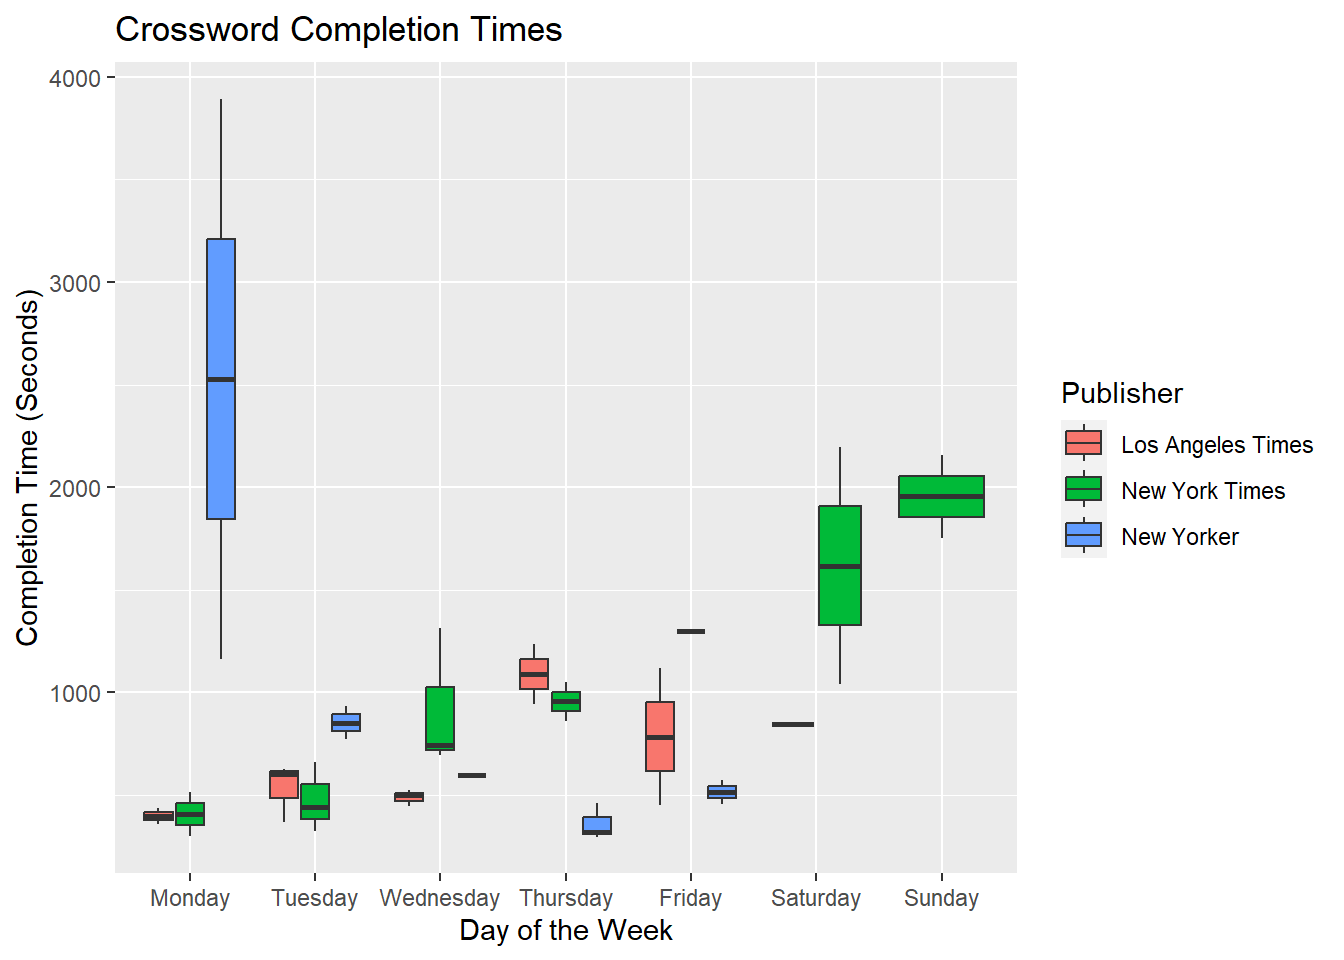
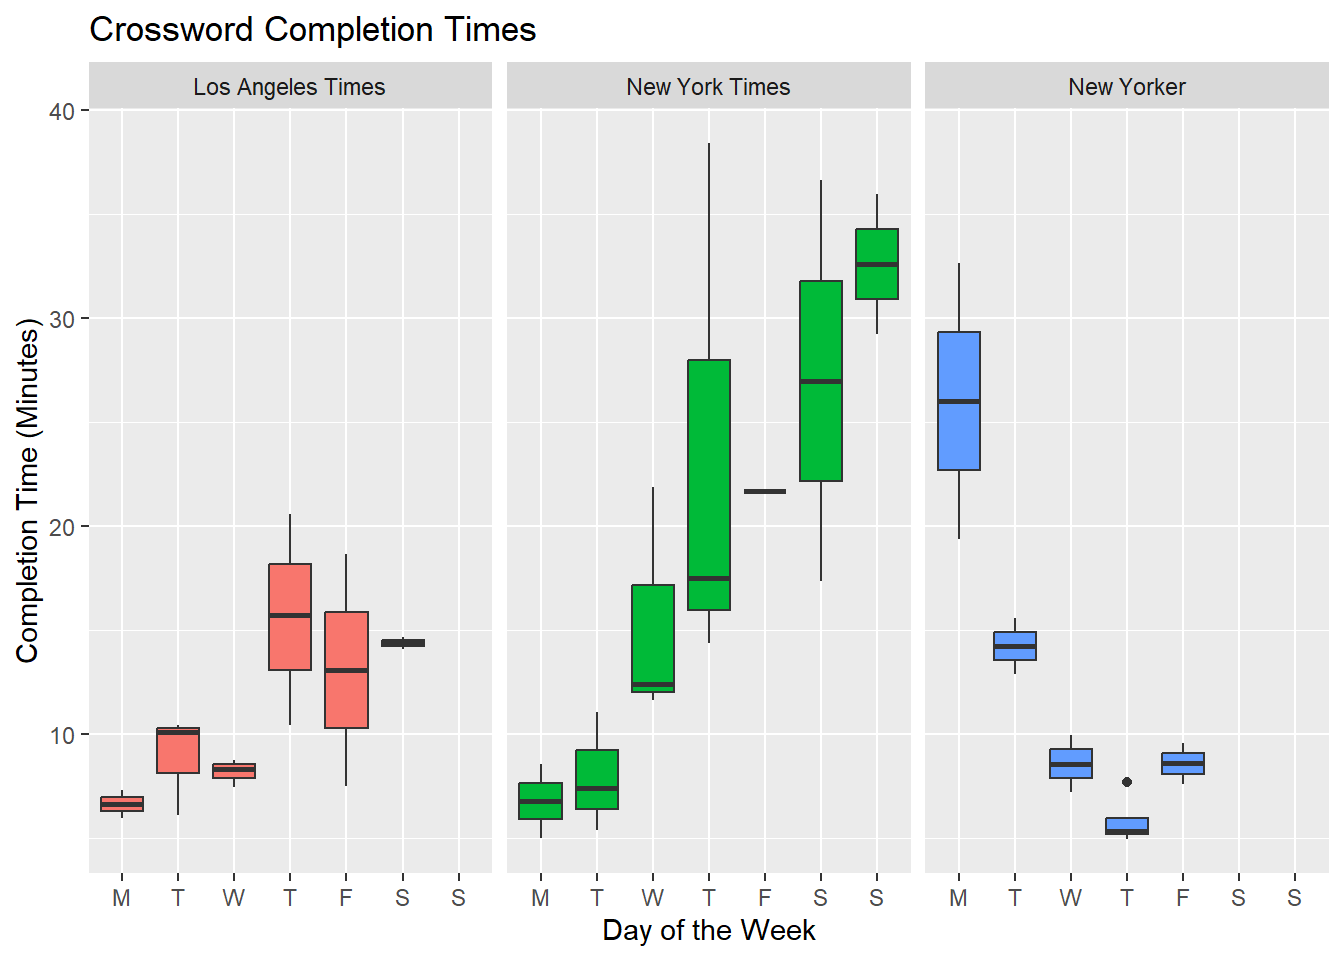
redesign boxplot in crossword times post

diff --git a/posts/crossword_times/crossword_times.html b/posts/crossword_times/crossword_times.html
@@ -209,12 +209,15 @@ code span.wa { color: #60a0b0; font-weight: bold; font-style: italic; } /* Warni
 <div class="sourceCode cell-code" id="cb1"><pre class="sourceCode r code-with-copy"><code class="sourceCode r"><span id="cb1-1"><a href="#cb1-1" aria-hidden="true" tabindex="-1"></a><span class="fu">read_csv</span>(<span class="st">"crossword_times.csv"</span>, <span class="at">col_types =</span> <span class="st">"ccD"</span>) <span class="sc">|&gt;</span></span>
 <span id="cb1-2"><a href="#cb1-2" aria-hidden="true" tabindex="-1"></a>  <span class="fu">ggplot</span>(<span class="fu">aes</span>(<span class="at">x =</span> <span class="fu">factor</span>(<span class="fu">weekdays</span>(<span class="fu">as.Date</span>(Date)), </span>
 <span id="cb1-3"><a href="#cb1-3" aria-hidden="true" tabindex="-1"></a>                        <span class="fu">weekdays</span>(<span class="fu">as.Date</span>(<span class="st">'1970-01-01'</span>) <span class="sc">+</span> <span class="dv">4</span><span class="sc">:</span><span class="dv">10</span>)), </span>
-<span id="cb1-4"><a href="#cb1-4" aria-hidden="true" tabindex="-1"></a>             <span class="at">y =</span> <span class="fu">period_to_seconds</span>(<span class="fu">ms</span>(Time)), </span>
+<span id="cb1-4"><a href="#cb1-4" aria-hidden="true" tabindex="-1"></a>             <span class="at">y =</span> <span class="fu">period_to_seconds</span>(<span class="fu">ms</span>(Time))<span class="sc">/</span><span class="dv">60</span>, </span>
 <span id="cb1-5"><a href="#cb1-5" aria-hidden="true" tabindex="-1"></a>             <span class="at">fill =</span> Publisher)) <span class="sc">+</span></span>
-<span id="cb1-6"><a href="#cb1-6" aria-hidden="true" tabindex="-1"></a>  <span class="fu">geom_boxplot</span>() <span class="sc">+</span></span>
-<span id="cb1-7"><a href="#cb1-7" aria-hidden="true" tabindex="-1"></a>  <span class="fu">labs</span>(<span class="at">title =</span> <span class="st">"Crossword Completion Times"</span>, </span>
-<span id="cb1-8"><a href="#cb1-8" aria-hidden="true" tabindex="-1"></a>           <span class="at">x =</span> <span class="st">"Day of the Week"</span>,</span>
-<span id="cb1-9"><a href="#cb1-9" aria-hidden="true" tabindex="-1"></a>           <span class="at">y =</span> <span class="st">"Completion Time (Seconds)"</span>)</span></code><button title="Copy to Clipboard" class="code-copy-button"><i class="bi"></i></button></pre></div>
+<span id="cb1-6"><a href="#cb1-6" aria-hidden="true" tabindex="-1"></a>  <span class="fu">geom_boxplot</span>(<span class="fu">aes</span>(<span class="at">fill =</span> Publisher)) <span class="sc">+</span></span>
+<span id="cb1-7"><a href="#cb1-7" aria-hidden="true" tabindex="-1"></a>  <span class="fu">scale_x_discrete</span>(<span class="at">labels =</span> <span class="fu">c</span>(<span class="st">"M"</span>, <span class="st">"T"</span>, <span class="st">"W"</span>, <span class="st">"T"</span>, <span class="st">"F"</span>, <span class="st">"S"</span>, <span class="st">"S"</span>)) <span class="sc">+</span></span>
+<span id="cb1-8"><a href="#cb1-8" aria-hidden="true" tabindex="-1"></a>  <span class="fu">facet_wrap</span>(<span class="sc">~</span>Publisher) <span class="sc">+</span></span>
+<span id="cb1-9"><a href="#cb1-9" aria-hidden="true" tabindex="-1"></a>  <span class="fu">guides</span>(<span class="at">fill =</span> <span class="cn">FALSE</span>) <span class="sc">+</span> </span>
+<span id="cb1-10"><a href="#cb1-10" aria-hidden="true" tabindex="-1"></a>  <span class="fu">labs</span>(<span class="at">title =</span> <span class="st">"Crossword Completion Times"</span>, </span>
+<span id="cb1-11"><a href="#cb1-11" aria-hidden="true" tabindex="-1"></a>           <span class="at">x =</span> <span class="st">"Day of the Week"</span>,</span>
+<span id="cb1-12"><a href="#cb1-12" aria-hidden="true" tabindex="-1"></a>           <span class="at">y =</span> <span class="st">"Completion Time (Minutes)"</span>)</span></code><button title="Copy to Clipboard" class="code-copy-button"><i class="bi"></i></button></pre></div>
 <div class="cell-output-display">
 <p><img src="crossword_times_files/figure-html/boxplot-1.png" class="img-fluid" width="672"></p>
 </div>

diff --git a/posts.html b/posts.html
@@ -143,7 +143,7 @@ ul.task-list li input[type="checkbox"] {
 
 <div class="quarto-listing quarto-listing-container-default" id="listing-listing">
 <div class="list quarto-listing-default">
-<div class="quarto-post image-right" data-index="0" data-listing-date-sort="1672635600000" data-listing-file-modified-sort="1672789997307" data-listing-reading-time-sort="1.53">
+<div class="quarto-post image-right" data-index="0" data-listing-date-sort="1672635600000" data-listing-file-modified-sort="1672982505472" data-listing-reading-time-sort="1.64">
 <div class="thumbnail">
 <p><a href="./posts/crossword_times/crossword_times.html"> <img src="./posts/crossword_times/crossword_times.jpg" class="thumnail-image"> </a></p>
 </div>
